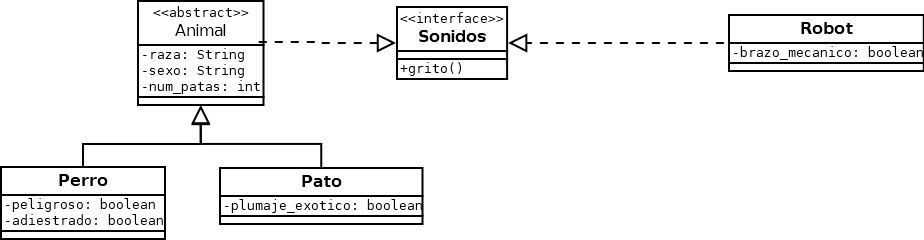
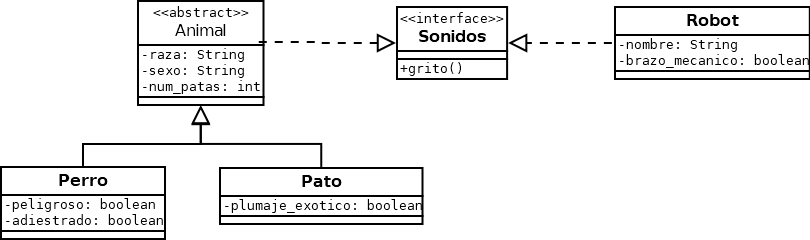
Update ejercicio04

diff --git a/src/ejercicioSonidos/ejercicio4_interfaz/Robot.java b/src/ejercicioSonidos/ejercicio4_interfaz/Robot.java
@@ -2,12 +2,24 @@ package ejercicioSonidos.ejercicio4_interfaz;
 
 public class Robot implements Sonidos{
 	
+	private String nombre;
 	private boolean brazo_mecanico;
 
-	public Robot(boolean brazo_mecanico) {
+	public Robot(String nombre, boolean brazo_mecanico) {
 		super();
+		this.nombre = nombre;
 		this.brazo_mecanico = brazo_mecanico;
 	}
+
+	public String getNombre() {
+		return nombre;
+	}
+
+
+	public void setNombre(String nombre) {
+		this.nombre = nombre;
+	}
+
 
 	public boolean isBrazo_mecanico() {
 		return brazo_mecanico;
@@ -24,6 +36,6 @@ public class Robot implements Sonidos{
 
 	@Override
 	public String toString() {
-		return "Robot [brazo_mecanico=" + brazo_mecanico + ", grito()=" + grito() + "]";
+		return "Robot [nombre=" + nombre + ", brazo_mecanico=" + brazo_mecanico + ", grito()=" + grito() + "]";
 	}
 }

diff --git a/src/ejercicioSonidos/ejercicio4_interfaz/ejercicio4.java b/src/ejercicioSonidos/ejercicio4_interfaz/ejercicio4.java
@@ -16,7 +16,7 @@ public class ejercicio4 {
 		Perro perro2 = new Perro("Chihuahua", "Masculino", 4, true, false);
 		arr.add(perro2);
 		
-		Robot robot1 = new Robot(true);
+		Robot robot1 = new Robot("Robot 1", true);
 		arr.add(robot1);
 		
 		
